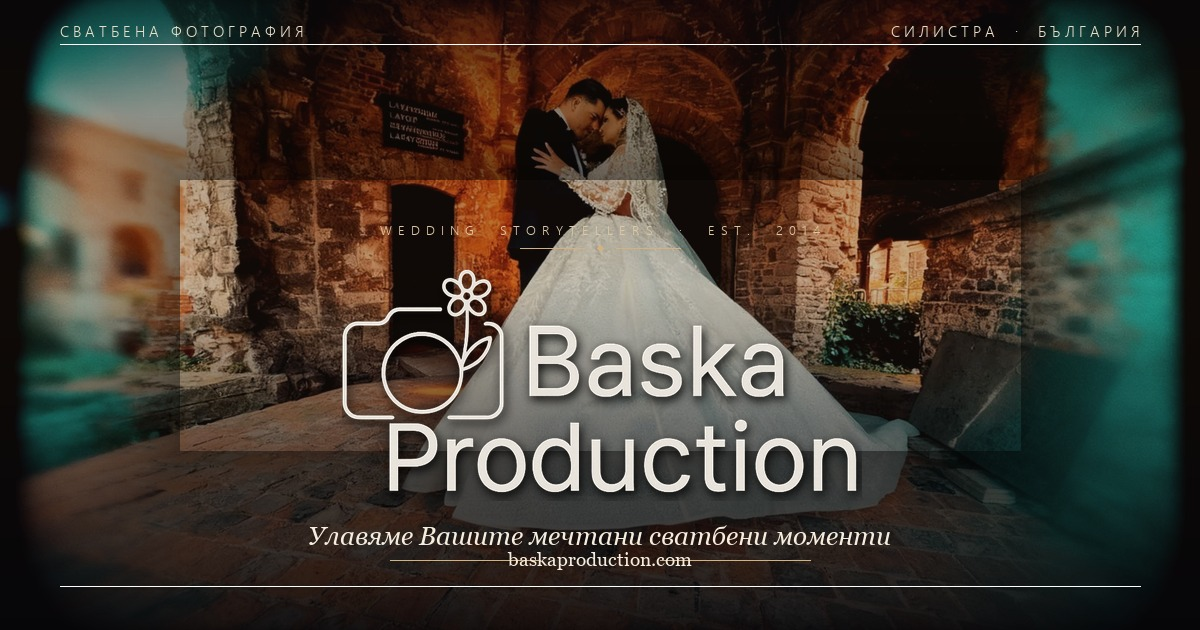
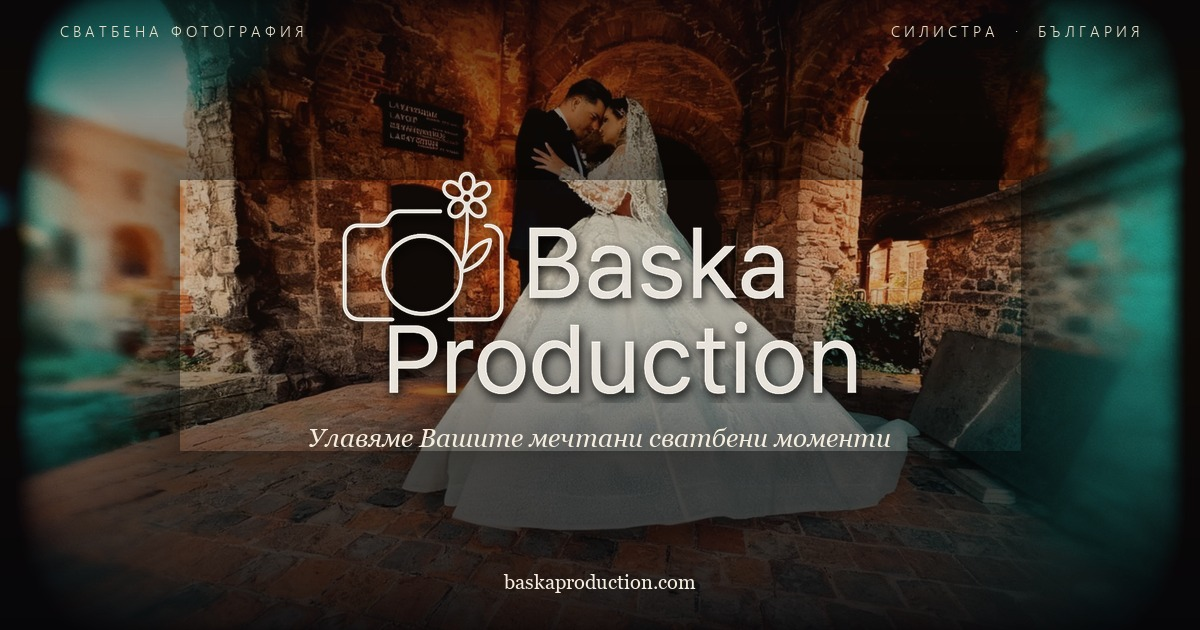
og: remove letterbox frame, eyebrow text, and url hairlines
- Drop the top/bottom horizontal hairlines (rectangular frame)
- Remove 'WEDDING STORYTELLERS · EST. 2014' and its decorative divider
- Remove hairlines flanking baskaproduction.com (they overlapped the text)
- Recenter logo vertically in the empty space

Changed region(s): [[0.2467, 0.2714, 0.74, 0.7841], [0.2467, 0.8444, 0.74, 0.9349]]

diff --git a/scripts/make-og.py b/scripts/make-og.py
@@ -112,11 +112,6 @@ hero = Image.alpha_composite(hero, vignette_layer(W, H, intensity=110))
 
 draw = ImageDraw.Draw(hero)
 
-# --- 3. Cinematic letterbox-style hairlines (top + bottom thin ticks) ---
-# Thin horizontal hairlines near edges
-draw.line([(60, 44), (W - 60, 44)], fill=(255, 255, 255, 40), width=1)
-draw.line([(60, H - 44), (W - 60, H - 44)], fill=(255, 255, 255, 40), width=1)
-
 # --- 4. Top editorial header: corner tags ---
 f_tag = ImageFont.truetype(SANS_SBOLD, 15)
 # Left tag
@@ -137,19 +132,7 @@ right_tag = "СИЛИСТРА  ·  БЪЛГАРИЯ"
 rw = sum(draw.textbbox((0, 0), ch, font=f_tag)[2] for ch in right_tag) + 4 * (len(right_tag) - 1)
 draw_tracked(draw, right_tag, W - 60 - rw, 20, f_tag, (230, 220, 200, 220), tracking=4)
 
-# --- 5. Small centered eyebrow above logo ---
-f_eyebrow = ImageFont.truetype(SANS_SBOLD, 13)
-draw_centered(draw, "WEDDING  STORYTELLERS  ·  EST.  2014",
-              220, f_eyebrow, (220, 200, 165, 255), tracking=6)
-
-# Tiny horizontal hairline above logo
 cx = W // 2
-draw.line([(cx - 80, 248), (cx - 16, 248)], fill=(210, 178, 128, 200), width=1)
-draw.line([(cx + 16, 248), (cx + 80, 248)], fill=(210, 178, 128, 200), width=1)
-# Tiny diamond
-d = 3
-draw.polygon([(cx, 248 - d), (cx + d, 248), (cx, 248 + d), (cx - d, 248)],
-             fill=(210, 178, 128, 255))
 
 # --- 6. Logo (inverted to warm off-white) centered ---
 logo = Image.open(LOGO).convert("RGBA")
@@ -174,7 +157,7 @@ shadow_resized = shadow_blur.resize(
     (target_w, int(shadow_blur.height * ratio)), Image.LANCZOS)
 
 lx = (W - logo_resized.width) // 2
-ly = 268
+ly = (H - logo_resized.height) // 2 - 30
 # shadow slightly offset
 hero.paste(shadow_resized, (lx + 2, ly + 4), shadow_resized)
 hero.paste(logo_resized, (lx, ly), logo_resized)
@@ -188,14 +171,9 @@ draw_centered(draw, "Улавяме Вашите мечтани сватбени
               tag_y, f_serif, (245, 238, 222, 255))
 
 # --- 8. Bottom URL block ---
-# Thin gold horizontal rule + URL
-url_y = H - 70
-draw.line([(cx - 210, url_y), (cx - 60, url_y)], fill=(210, 178, 128, 180), width=1)
-draw.line([(cx + 60, url_y), (cx + 210, url_y)], fill=(210, 178, 128, 180), width=1)
-
-f_url = ImageFont.truetype(SERIF_REG, 19)
+f_url = ImageFont.truetype(SERIF_REG, 20)
 draw_centered(draw, "baskaproduction.com",
-              url_y - 12, f_url, (245, 238, 222, 255))
+              H - 60, f_url, (245, 238, 222, 255))
 
 # --- 9. Save ---
 final = hero.convert("RGB")
